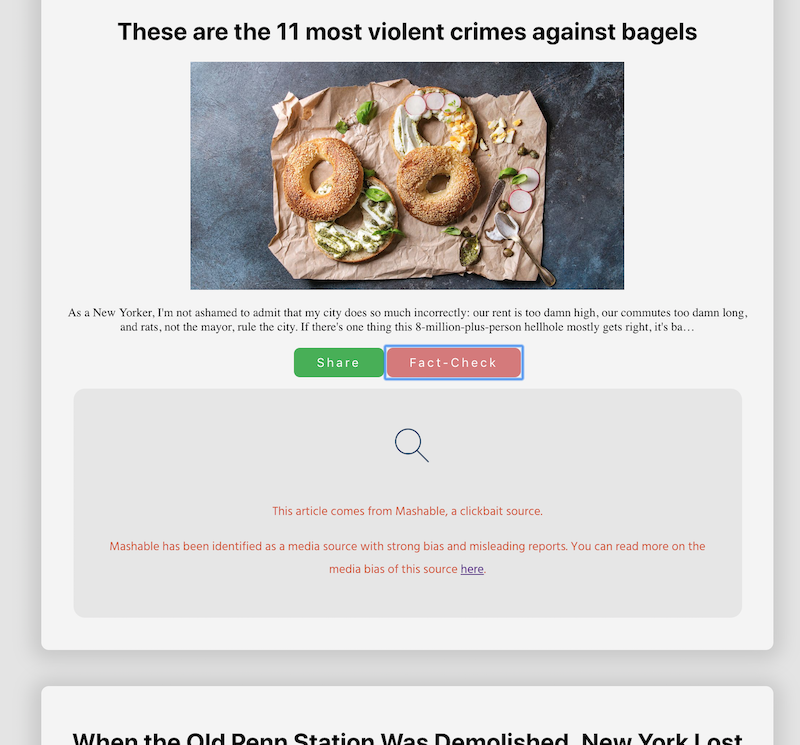
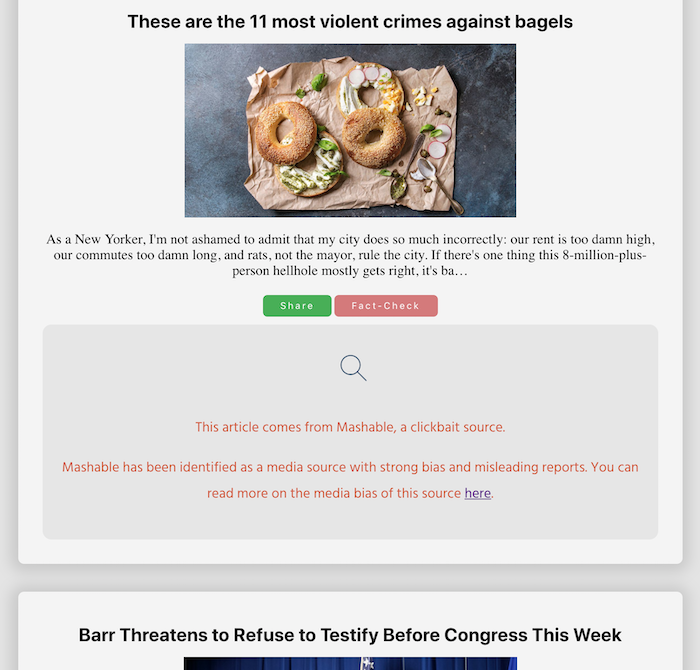
styling for homepage/font sizes

diff --git a/src/App.css b/src/App.css
@@ -14,7 +14,15 @@
   font-family: 'Lora', serif;
 }
 
-body {
+html {
+  background: url(./newspapers.jpg) no-repeat center center fixed; 
+  -webkit-background-size: cover;
+  -moz-background-size: cover;
+  -o-background-size: cover;
+  background-size: cover;
+}
+
+html .all-articles{
   background-color: rgb(228, 228, 228);
 }
 
@@ -25,18 +33,12 @@ h2 {
 
 p {
   font-family: 'Lora', serif;
+  font-size: 1.5em;
 }
 
 .front-image-container {
   position: relative;
   text-align: center;
-}
-
-.newspapers {
-  width: 100%;
-  position: relative;
-  margin-left:0;
-  margin-right: 0;
 }
 
 .centered-title {
@@ -45,10 +47,6 @@ p {
   font-weight: bold;
   font-family: 'Lora', serif;
   padding: 0.5em;
-  position: absolute;
-  top: 50%;
-  left: 50%;
-  transform: translate(-50%, -50%);
 }
 
 .App-link {
@@ -61,10 +59,13 @@ p {
 }
 
 .tutorial-guide {
+  margin-left: 5%;
+  margin-right: 5%;
   border-radius: 0.5em;
   background-color: rgb(244, 244, 244);
+  opacity: 0.8;
   padding: 1em;
-  margin: -0.5em 8% 2em 8%;
+  margin-bottom: 2em;
 }
 
 button {
@@ -163,11 +164,6 @@ button {
 
 @media only screen and (max-width: 375px) {
 
-  .centered-title {
-    width: 80%;
-    font-size: 2em;
-  }
-
   .all-articles {
     text-align: center;
     display: flex;
@@ -175,11 +171,7 @@ button {
   }
 
   h1 {
-    font-size: 1em;
-  }
-
-  h2 {
-    font-size: 1em;
+    font-size: 2em;
   }
 
   .logo {

diff --git a/src/Tutorial.js b/src/Tutorial.js
@@ -7,10 +7,10 @@ function Tutorial() {
     <div className="App">
       <header>
         <div className="front-image-container">
-          <img
+          {/* <img
             className="newspapers"
             alt="newspaper"
-            src={require("./newspapers.jpg")}></img>
+            src={require("./newspapers.jpg")}></img> */}
             <h1 className="centered-title">What's the Scoop?</h1>
         </div>
         <div className="tutorial-guide">
